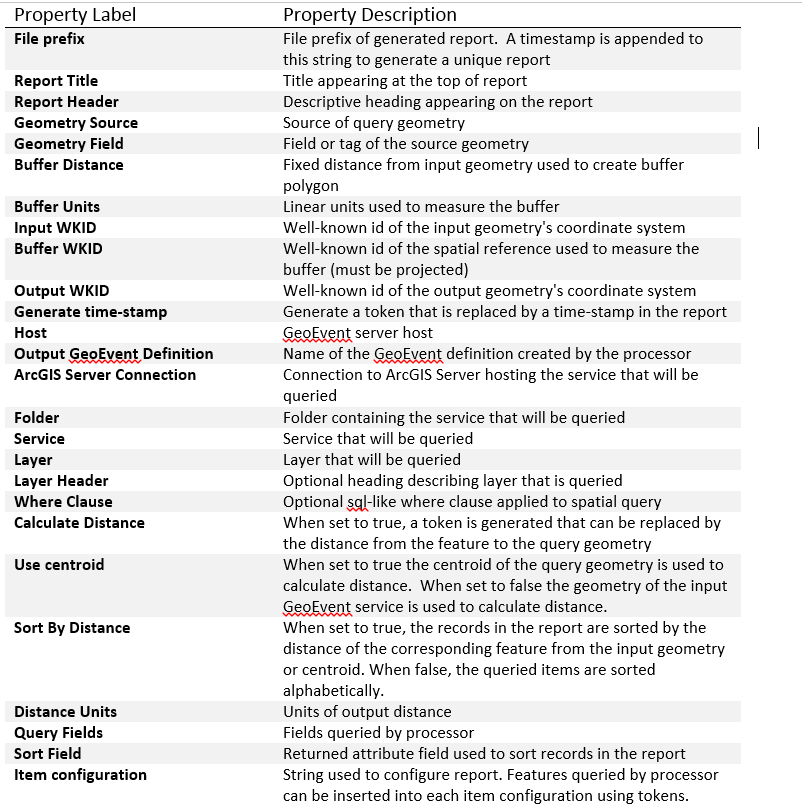
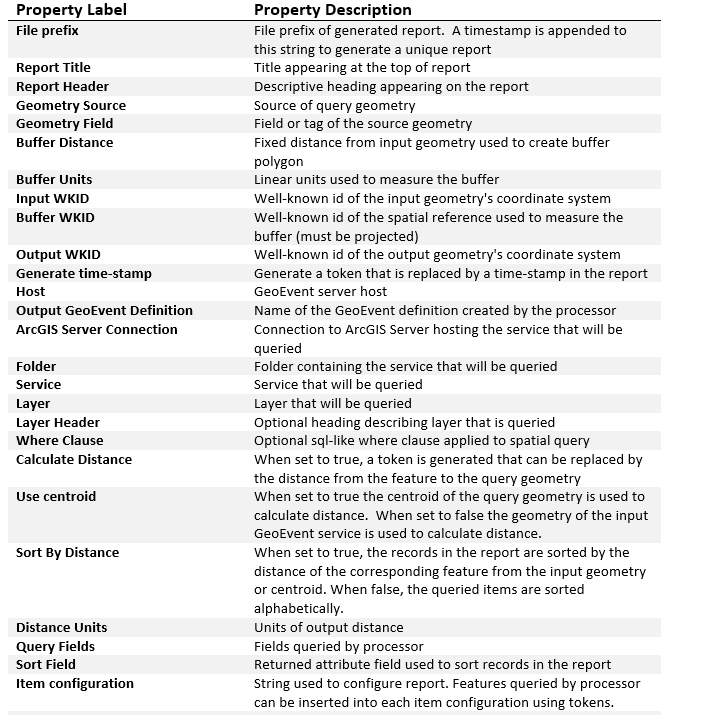
readme updates

diff --git a/solutions-geoevent/10.3.0/processors/query-report-processor/src/main/java/com/esri/geoevent/solutions/processor/queryreport/QueryReportProcessor.java b/solutions-geoevent/10.3.0/processors/query-report-processor/src/main/java/com/esri/geoevent/solutions/processor/queryreport/QueryReportProcessor.java
@@ -117,7 +117,6 @@ public class QueryReportProcessor extends GeoEventProcessorBase {
 	Boolean useCentroid;
 	String eventfld;
 	Boolean useTimeStamp;
-	String tsFld;
 	String file;
 	String host;
 	String outDefName;
@@ -133,8 +132,8 @@ public class QueryReportProcessor extends GeoEventProcessorBase {
 	Boolean calcDist;
 	String wc;
 	String lyrHeaderCfg;
-	Boolean sortByDist;
 	String distToken="";
+	Boolean sortByDist;
 	String distUnits="";
 	//String token;
 	String sortField;
@@ -143,6 +142,8 @@ public class QueryReportProcessor extends GeoEventProcessorBase {
 	String header;
 	private com.esri.core.geometry.Geometry inGeometry;
 	GeoEvent currentEvent = null;
+	String ts;
+	String time;
 	
 	public QueryReportProcessor(GeoEventProcessorDefinition definition, GeoEventDefinitionManager m, ArcGISServerConnectionManager cm, Messaging msg)
 			throws ComponentException {
@@ -176,14 +177,20 @@ public class QueryReportProcessor extends GeoEventProcessorBase {
 		useCentroid = (Boolean)properties.get("usecentroid").getValue();
 		eventfld = properties.get("geoeventdef").getValue().toString();
 		useTimeStamp = (Boolean)properties.get("usetimestamp").getValue();
-		tsFld = properties.get("timestamp").getValueAsString();
+		
 		DateTime dt = DateTime.now();
-		String ts = ((Integer) dt.getYear()).toString()
+		ts = ((Integer) dt.getYear()).toString()
 				+ ((Integer) dt.getMonthOfYear()).toString()
 				+ ((Integer) dt.getDayOfMonth()).toString()
 				+ ((Integer) dt.getHourOfDay()).toString()
 				+ ((Integer) dt.getMinuteOfHour()).toString()
 				+ ((Integer) dt.getSecondOfMinute()).toString();
+		time = ((Integer) dt.getYear()).toString()
+				+"/" + ((Integer) dt.getMonthOfYear()).toString()
+				+"/"+ ((Integer) dt.getDayOfMonth()).toString()
+				+" "+ ((Integer) dt.getHourOfDay()).toString()
+				+ ":"+((Integer) dt.getMinuteOfHour()).toString()
+				+ ":"+((Integer) dt.getSecondOfMinute()).toString();
 		file = properties.get("filename").getValueAsString() + ts + ".html";
 		host = properties.get("host").getValueAsString();
 		outDefName = properties.get("gedname").getValueAsString();
@@ -219,7 +226,7 @@ public class QueryReportProcessor extends GeoEventProcessorBase {
 		if(calcDist)
 		{
 			sortByDist = (Boolean)properties.get("sortdist").getValue();
-			distToken=properties.get("dist_token").getValueAsString();
+			distToken="${distance.value}";
 			distUnits=properties.get("dist_units").getValueAsString();
 		}
 		//token = properties.get("field-token").getValueAsString();
@@ -369,7 +376,7 @@ public class QueryReportProcessor extends GeoEventProcessorBase {
 		String timestamp = "";
 		if(useTimeStamp)
 	       {
-			timestamp = ge.getField(tsFld).toString();
+			timestamp = time;
 	       }
 
 		ParseResponses(timestamp, file, responseMap);
@@ -924,7 +931,7 @@ public class QueryReportProcessor extends GeoEventProcessorBase {
 		       
 		       if(!timestamp.isEmpty())
 		       {
-		    	   String tsToken = properties.get("timestamptoken").getValueAsString();
+		    	   String tsToken = "${timestamp.value}";
 		    	   title = title.replace(tsToken, timestamp);
 		    	   if(header != null)
 		    	   {

diff --git a/solutions-geoevent/10.3.0/processors/query-report-processor/src/main/java/com/esri/geoevent/solutions/processor/queryreport/QueryReportProcessorDefinition.java b/solutions-geoevent/10.3.0/processors/query-report-processor/src/main/java/com/esri/geoevent/solutions/processor/queryreport/QueryReportProcessorDefinition.java
@@ -201,25 +201,6 @@ public class QueryReportProcessorDefinition extends
 			propertyDefinitions.put(procUseTimeStamp.getPropertyName(),
 					procUseTimeStamp);
 
-			PropertyDefinition procTimeStamp = new PropertyDefinition(
-					"timestamp", PropertyType.String, "", lblTimeStampFld,
-					descTimeStampFld, false, false);
-			procTimeStamp.setDependsOn("usetimestamp=true");
-			//SetGeoEventAllowedFields(procTimeStamp);
-			propertyDefinitions.put(procTimeStamp.getPropertyName(),
-					procTimeStamp);
-			String tk = tokenizer.tokenize("time");
-			PropertyDefinition procTimeStampToken = new PropertyDefinition(
-					"timestamptoken",
-					PropertyType.String,
-					"[$TIMESTAMP]",
-					lblTimeStampToken,
-					descTimeStampToken,
-					false, true);
-			procTimeStampToken.setDependsOn("usetimestamp=true");
-			propertyDefinitions.put(procTimeStampToken.getPropertyName(),
-					procTimeStampToken);
-
 			PropertyDefinition procHost = new PropertyDefinition("host",
 					PropertyType.String, "", lblHost, descHost,
 					true, false);
@@ -266,9 +247,7 @@ public class QueryReportProcessorDefinition extends
 			PropertyDefinition pdSortByDist = new PropertyDefinition("sortdist", PropertyType.Boolean, "false", lblSortByDist, descSortByDist, false, false);
 			pdSortByDist.setDependsOn("calcDistance=true");
 			propertyDefinitions.put(pdSortByDist.getPropertyName(),
-					pdSortByDist);
-			
-			
+					pdSortByDist);			
 			
 			PropertyDefinition procDistUnits = new PropertyDefinition(
 					"dist_units", PropertyType.String, "${com.esri.geoevent.solutions.processor.queryreport.query-report-processor.UNITS_METERS_LBL}", lblDistUnits,
@@ -276,19 +255,6 @@ public class QueryReportProcessorDefinition extends
 			procDistUnits.setDependsOn("calcDistance=true");
 			propertyDefinitions.put(procDistUnits.getPropertyName(),
 					procDistUnits);
-			AllowedValue allowedDefaultDistanceLabel = new AllowedValue(distLabel, "distLabel");
-			String dl = allowedDefaultDistanceLabel.getLabel();
-			tk = tokenizer.tokenize("distance");
-			PropertyDefinition pdDistanceToken = new PropertyDefinition(
-					"dist_token",
-					PropertyType.String,
-					tk,
-					lblDistToken,
-					descDistToken,
-					false, true);
-			pdDistanceToken.setDependsOn("calcDistance=true");
-			propertyDefinitions.put(pdDistanceToken.getPropertyName(),
-					pdDistanceToken);
 
 			PropertyDefinition pField = new PropertyDefinition("field",
 					PropertyType.String, null, lblQueryFld, descQueryFld,
@@ -299,16 +265,11 @@ public class QueryReportProcessorDefinition extends
 			pdSortField.setDependsOn("sortdist=false");
 			propertyDefinitions.put(pdSortField.getPropertyName(),
 					pdSortField);
-			//tk = tokenizer.tokenize("item");
-			//PropertyDefinition fldTokenPd = new PropertyDefinition(
-					//"field-token", PropertyType.String, tk, lblItemToken,
-					//descItemToken, true, true);
-			//propertyDefinitions.put(fldTokenPd.getPropertyName(), fldTokenPd);
 
 			PropertyDefinition pdItemConfig = new PropertyDefinition(
 					"item-config",
 					PropertyType.String,
-					tk,
+					"",
 					lblItemCfg,
 					descItemCfg,
 					true, false);
